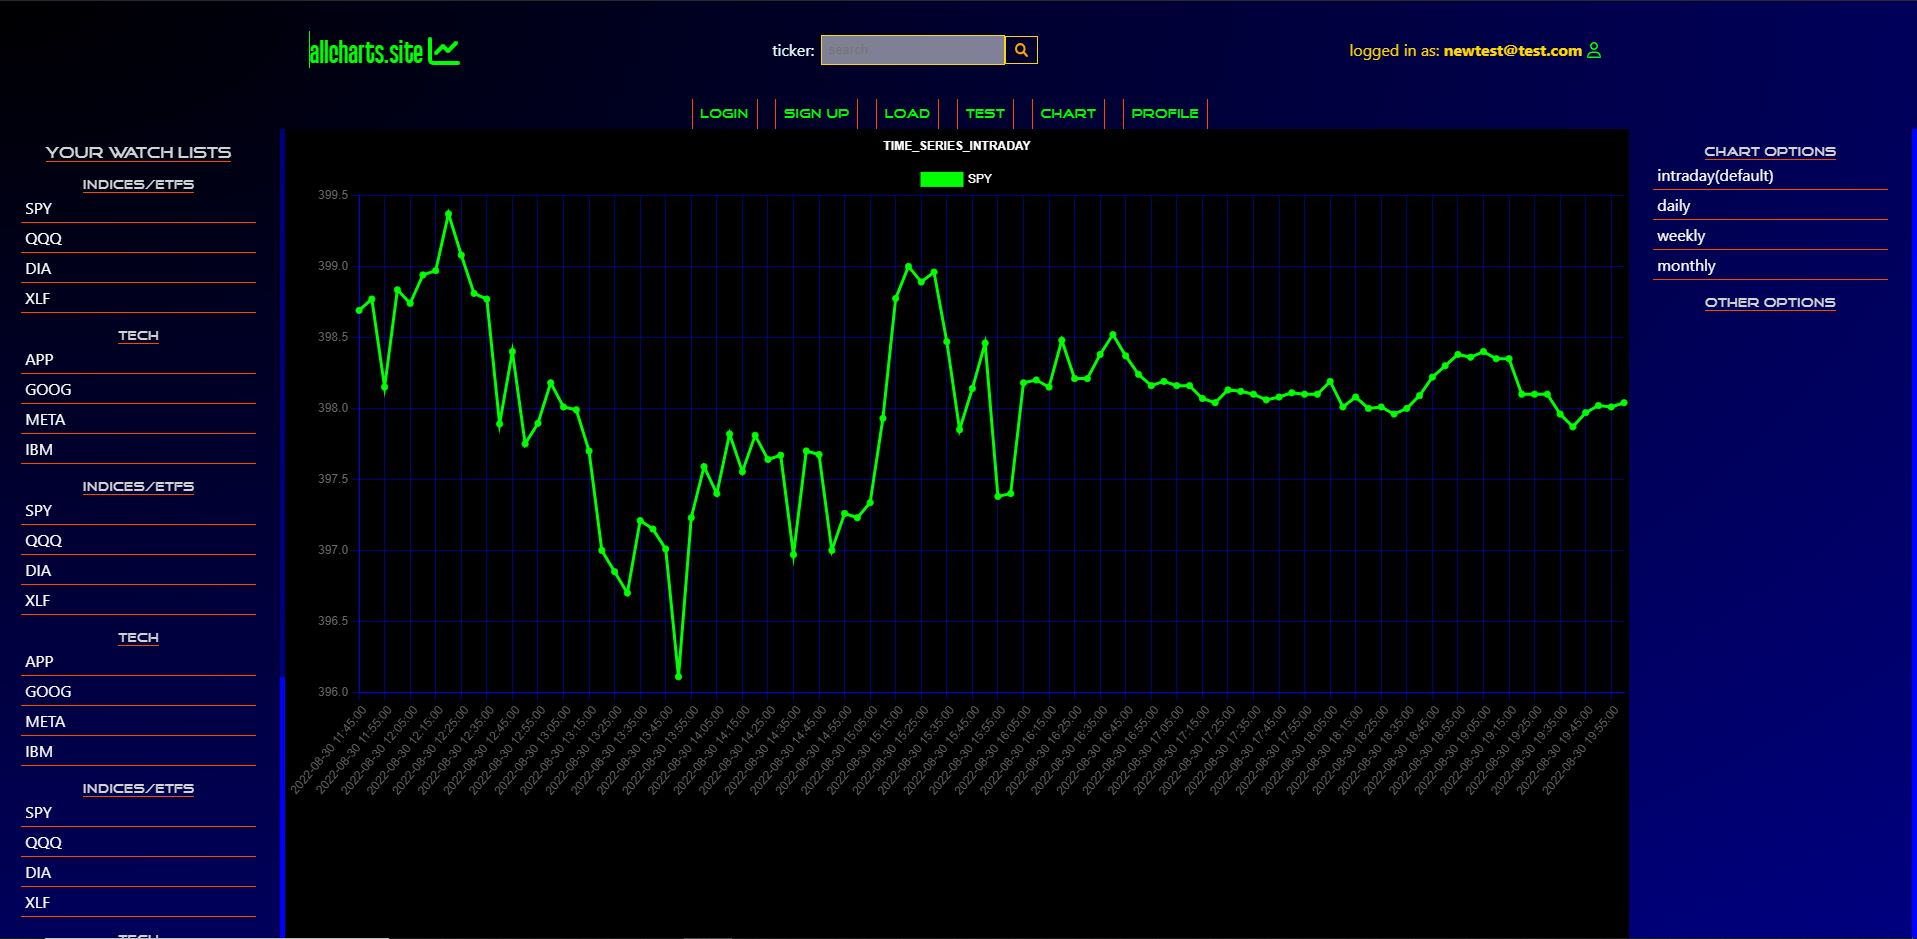
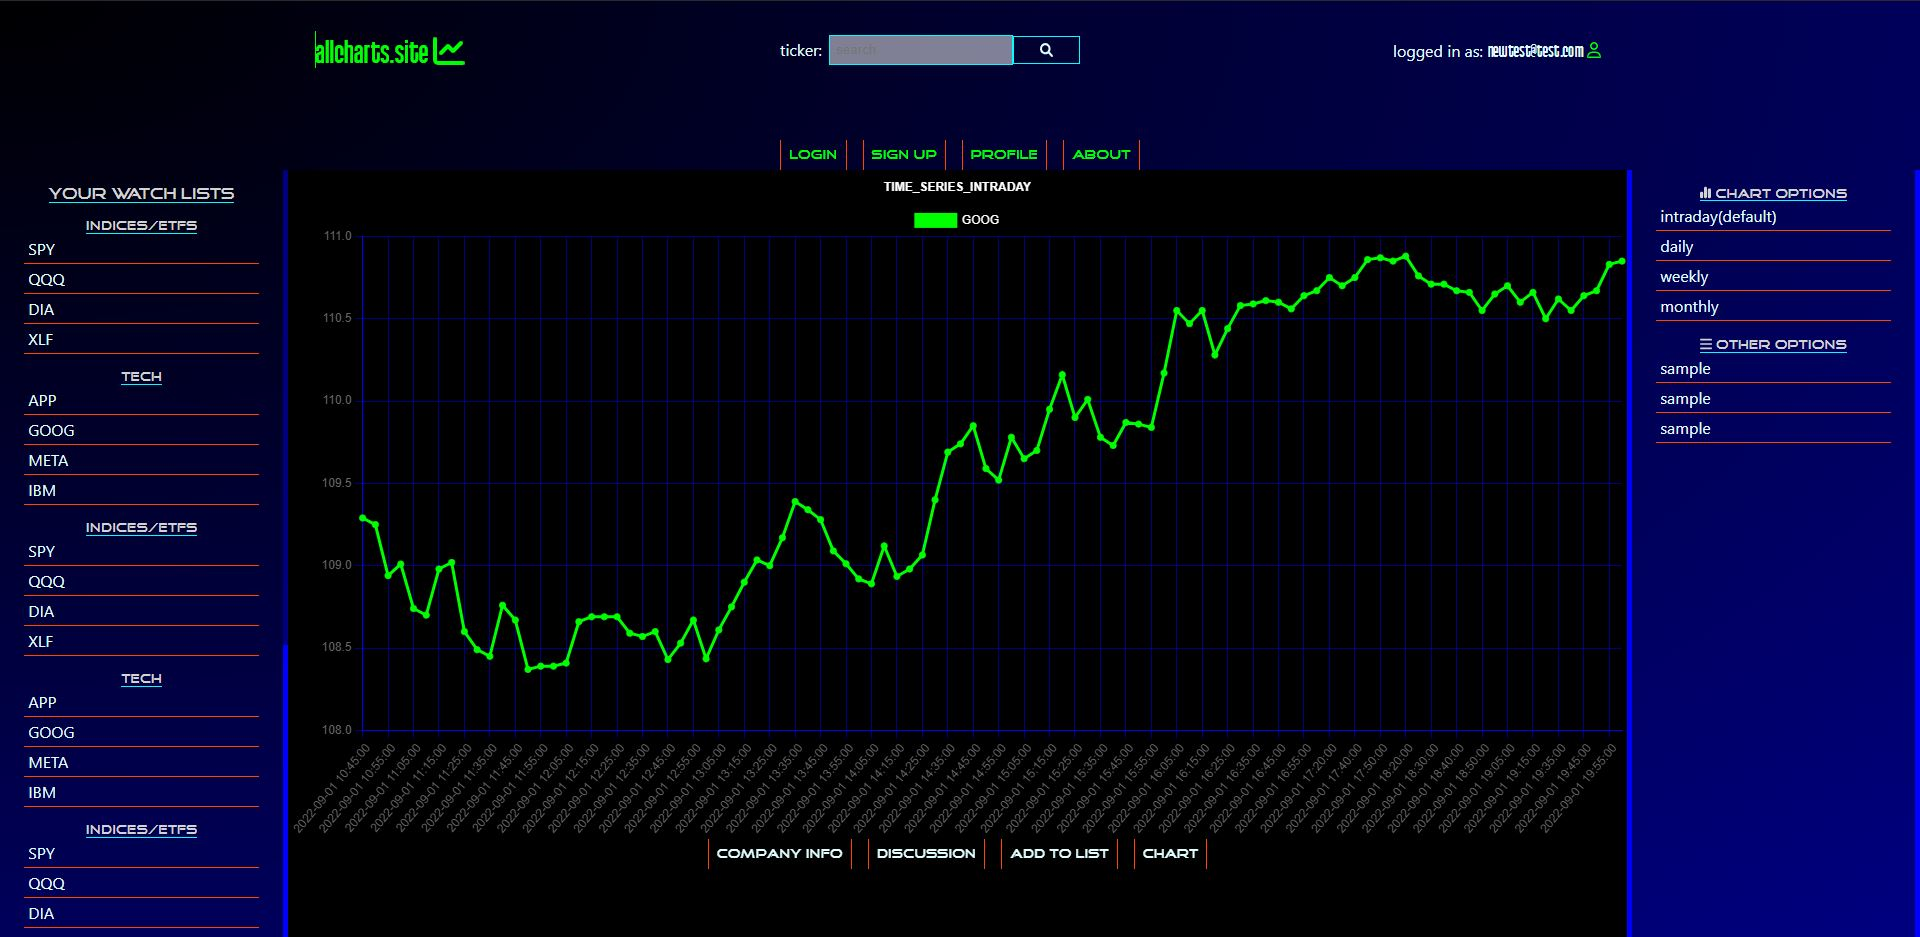
chart info

diff --git a/projects/9.html b/projects/9.html
@@ -32,11 +32,11 @@
     <div class="project-body">
       <div class="card project-card">
         <h3>additional info</h3>
-        <p>More features coming soon...</p>
-        <p></p>
+        <p>Users can currate lists of watched stock tickers. Users can also comment on any stock ticker they like, anyone can view the comments.</p>
+        <p>Users can choose various time frames of chart data, they can also view general information of any selected ticker symbol.</p>
       </div>
     </div>
-    <img class="large-img" src="../assets/chart.jpg">
+    <img class="large-img" src="../assets/chart_3.jpg">
     <div class="big-spacer"></div>
   </main>
   <footer id="sub-foot" class="is-primary has-text-primary">

diff --git a/index.html b/index.html
@@ -34,7 +34,7 @@
     </div>
     <div id="main-container">
       <div class="card is-secondary has-text-primary">
-        <img class='card-image' src="assets/chart_2.jpg">
+        <img class='card-image' src="assets/chart.jpg">
         <h4>www.allcharts.site</h4>
         <p>This is a React frontend that pulls financial data from various APIs and also has its own Rails backend for user functions.</p>
         <div class="card-footer is-secondary has-text-primary">

diff --git a/projects/index.html b/projects/index.html
@@ -32,7 +32,7 @@
         </div>
       </div>
       <div class="card is-secondary has-text-primary">
-        <img class='card-image' src="../assets/chart_2.jpg">
+        <img class='card-image' src="../assets/chart.jpg">
         <h4>www.allcharts.site</h4>
         <p>This is a React frontend that pulls financial data from various APIs and also has its own Rails backend for user functions.</p>
         <div class="card-footer is-secondary has-text-primary">
